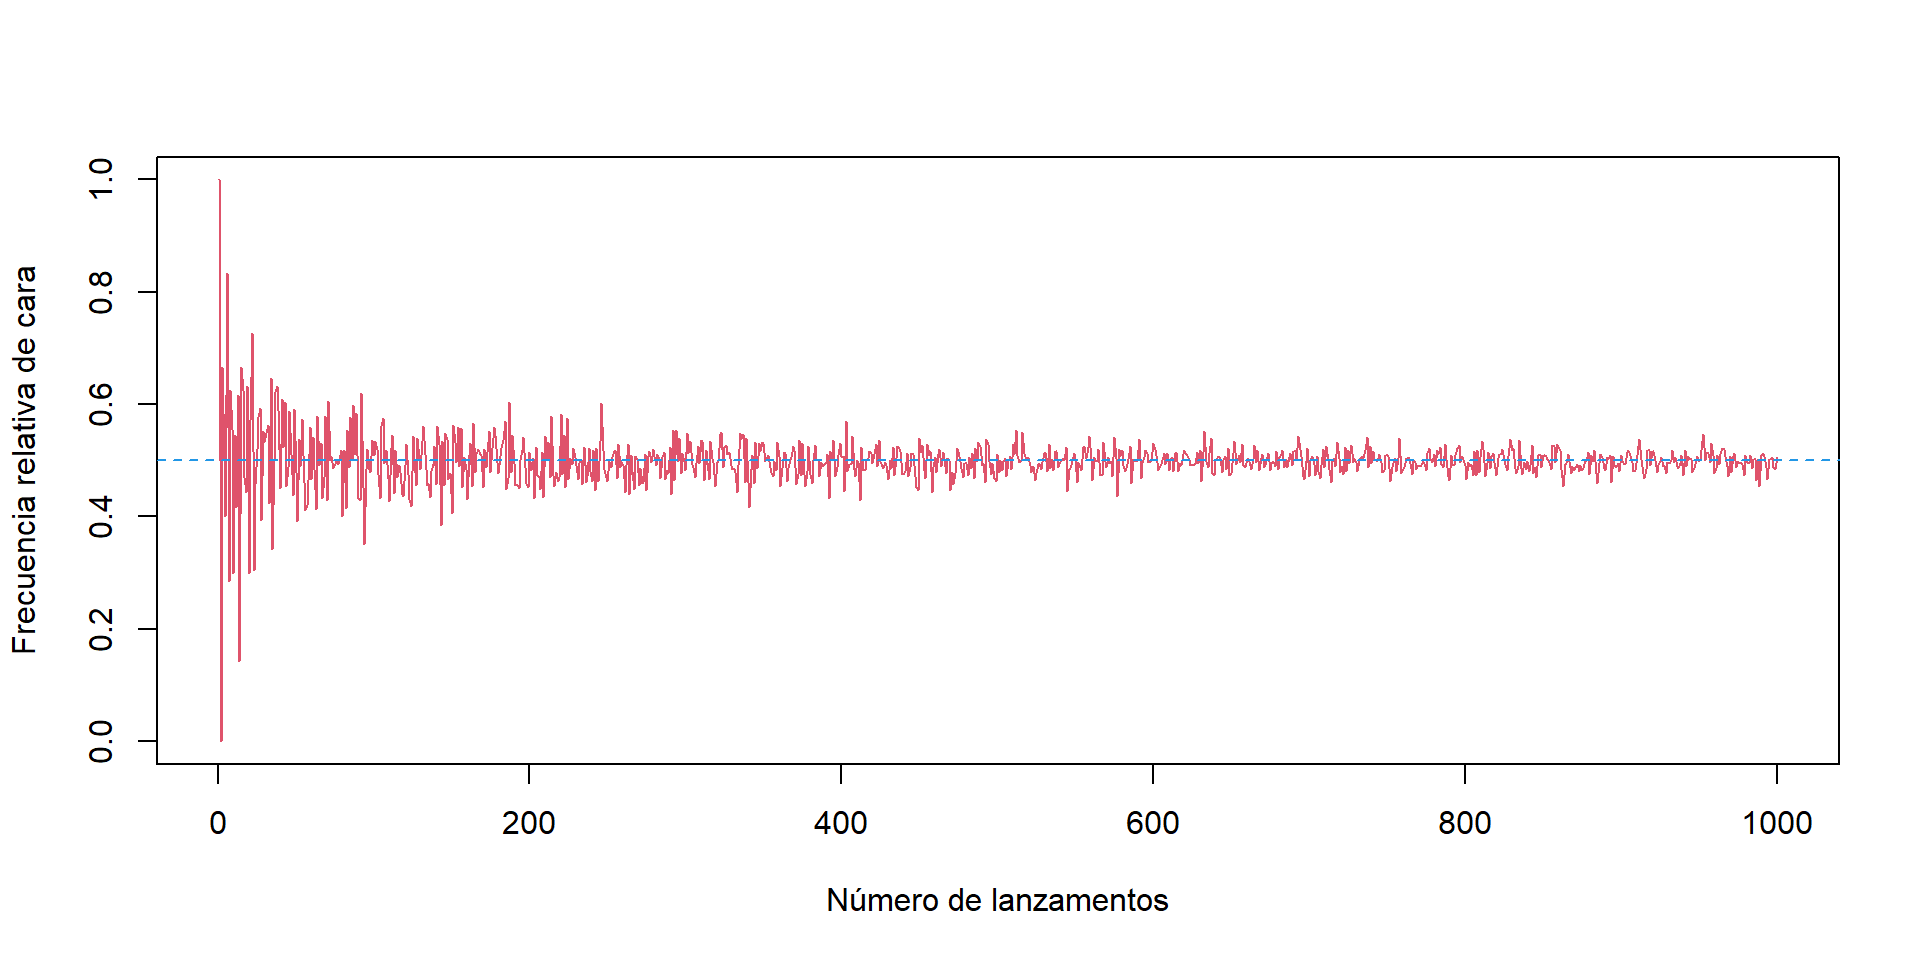
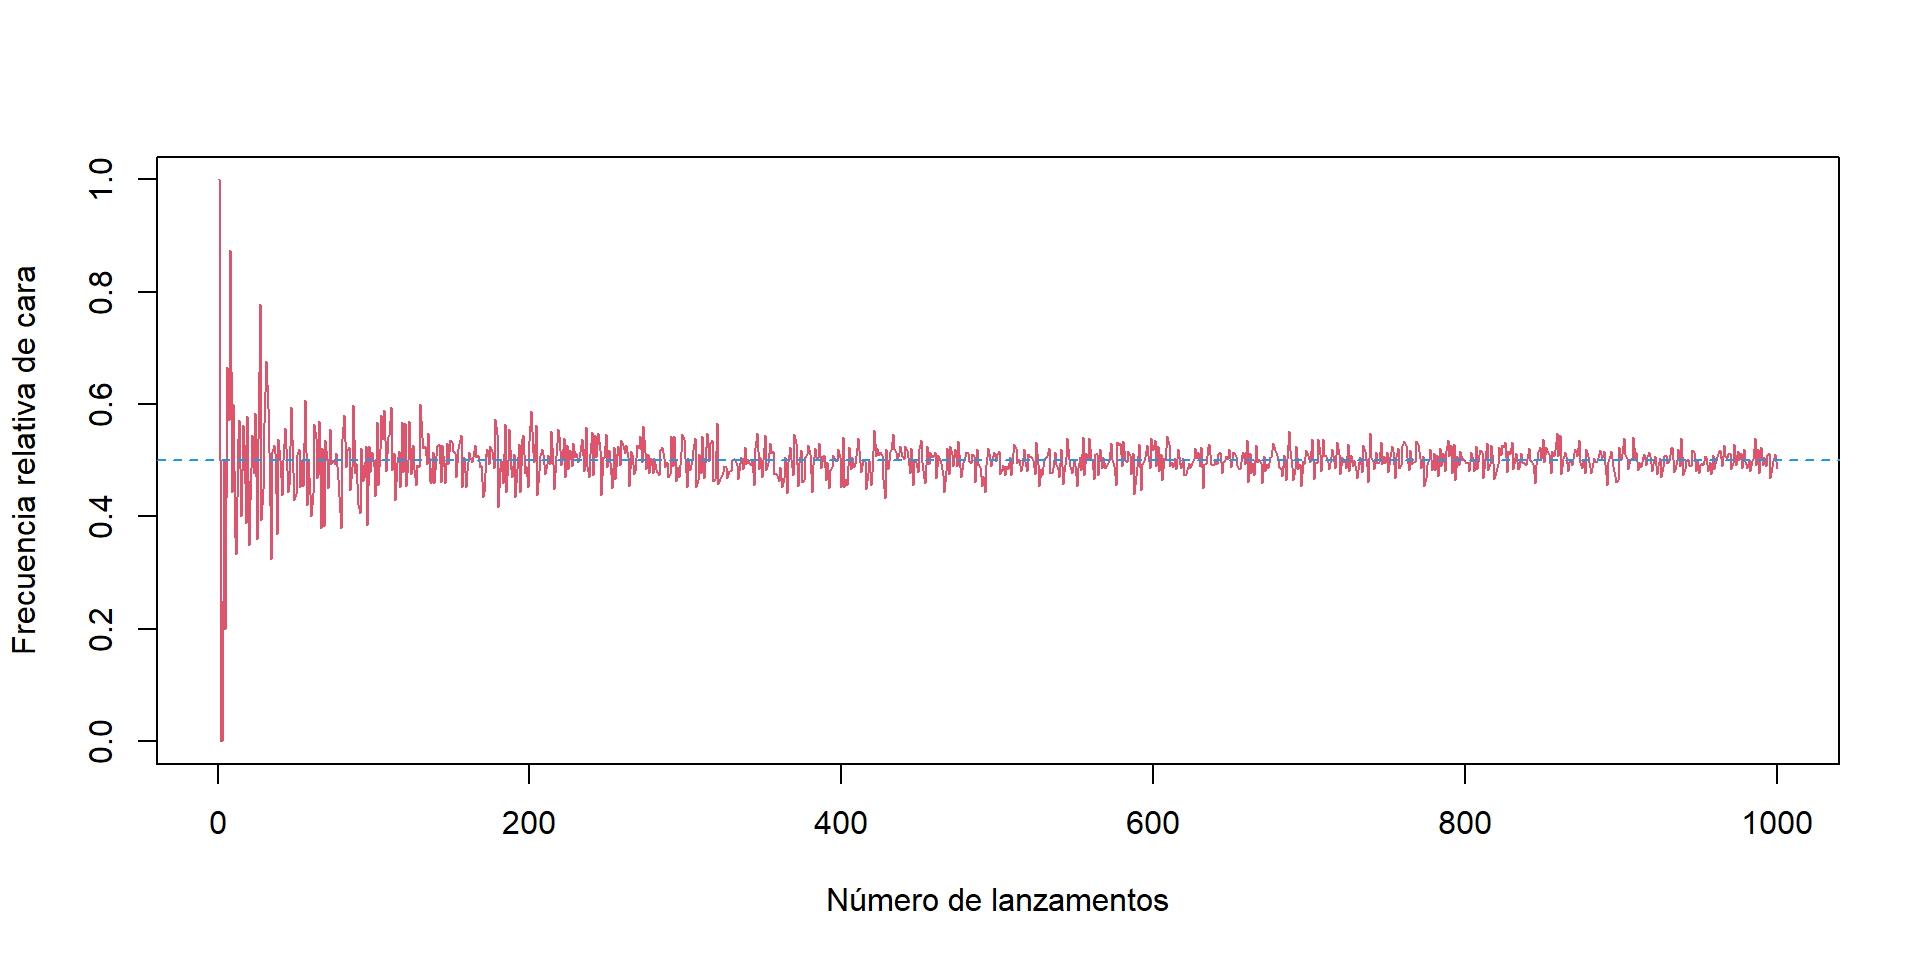
update EPE

Changed region(s): [[0.0938, 0.375, 0.9375, 0.625]]

diff --git a/materials/EPE/slides/Tema3_presentacion.html b/materials/EPE/slides/Tema3_presentacion.html
@@ -469,6 +469,7 @@ P\left(\bigcup_{i=1}^{\infty}A_i\right)
 <aside><ol class="aside-footnotes"><li id="fn1"><p>Unha <span class="math inline">\(\sigma\)</span>-álxebra é unha colección de sucesos pechada para as operacións que necesitaremos considerar: contén o espazo mostral e, se contén determinados sucesos, tamén contén os seus complementarios e as súas unións numerables.</p></li></ol></aside></section>
 <section id="propiedades-da-probabilidade" class="slide level2">
 <h2>Propiedades da probabilidade</h2>
+<div class="mysmall">
 <p>A partir dos axiomas de Kolmogorov pódense deducir algunhas propiedades fundamentais:</p>
 <ul>
 <li><p><strong>Probabilidade do suceso imposible:</strong> <span class="math inline">\(P(\emptyset)=0.\)</span></p></li>
@@ -478,16 +479,20 @@ P\left(\bigcup_{i=1}^{\infty}A_i\right)
 <li><p><strong>Principio de inclusión-exclusión:</strong> para dous sucesos <span class="math inline">\(A\)</span> e <span class="math inline">\(B\)</span>, <span class="math display">\[
 P(A\cup B)=P(A)+P(B)-P(A\cap B).
 \]</span></p>
-<p>En xeral, para <span class="math inline">\(A_1,\ldots,A_n\)</span>, <span class="math display">\[
+<p>En xeral, para <span class="math inline">\(A_1,\ldots,A_n\)</span>,</p>
+<p><span class="math display">\[
+\begin{aligned}
 P\left(\bigcup_{i=1}^n A_i\right)
 =
-\sum_i P(A_i)
--\sum_{i&lt;j}P(A_i\cap A_j)
-+\sum_{i&lt;j&lt;k}P(A_i\cap A_j\cap A_k)
+\sum_{i=1}^n P(A_i)
+-\sum_{1\leq i&lt;j\leq n}P(A_i\cap A_j)
++\sum_{1\leq i&lt;j&lt;k\leq n}P(A_i\cap A_j\cap A_k)
 -\cdots
 +(-1)^{n+1}P(A_1\cap\cdots\cap A_n).
+\end{aligned}
 \]</span></p></li>
 </ul>
+</div>
 </section>
 <section id="probabilidade-condicionada" class="slide level2">
 <h2>Probabilidade condicionada</h2>
@@ -540,6 +545,9 @@ P(A \cap B)=P(A)\cdot P(B).
 </li>
 <li><strong>Regra de Bayes</strong></li>
 </ul>
+<div style="text-align: center;">
+<p><img src="images/urna.png" style="width: 500px; max-width: 100%; height: auto;"></p>
+</div>
 </section>
 <section id="resultados-fundamentais-1" class="slide level2">
 <h2>Resultados fundamentais</h2>
@@ -559,9 +567,13 @@ P(A_n \mid A_1 \cap A_2 \cap \ldots \cap A_{n-1}).
 </div>
 </div>
 </div>
+<div style="text-align: center;">
+<p><img src="images/reglaproducto.png" style="width: 500px; max-width: 100%; height: auto;"></p>
+</div>
 </section>
 <section id="resultados-fundamentais-2" class="slide level2">
 <h2>Resultados fundamentais</h2>
+<div class="mysmall">
 <div class="callout callout-note no-icon callout-titled callout-style-default">
 <div class="callout-body">
 <div class="callout-title">
@@ -589,6 +601,10 @@ P(B) = P(A_1)\cdot P(B\mid A_1) + P(A_2)\cdot P(B\mid A_2) + \cdots + P(A_n)\cdo
 </div>
 </div>
 </div>
+<div style="text-align: center;">
+<p><img src="images/probtotal.png" style="width: 350px; max-width: 100%; height: auto;"></p>
+</div>
+</div>
 </section>
 <section id="resultados-fundamentais-3" class="slide level2">
 <h2>Resultados fundamentais</h2>
@@ -611,6 +627,27 @@ P(A_i\mid B) =
 </div>
 </div>
 </div>
+<div class="columns">
+<div class="column" style="width:20%;">
+<div class="quarto-figure quarto-figure-center">
+<figure>
+<p><img data-src="images/Bayes.jpg" class="quarto-figure quarto-figure-center" style="width:70.0%"></p>
+</figure>
+</div>
+<div style="text-align: center; font-size: 0.65em; margin-top: -32px;">
+<p>Thomas Bayes<br> (c.&nbsp;1701–1761)</p>
+</div>
+</div><div class="column" style="width:80%;">
+<div class="callout callout-tip no-icon callout-style-simple">
+<div class="callout-body">
+<div class="callout-content">
+<div style="text-align: right; font-size: 0.9em;">
+<p>O teorema de Bayes recibe o seu nome do matemático e reverendo inglés Thomas Bayes. O seu traballo, publicado postumamente en 1763, sentou as bases da inferencia bayesiana.</p>
+</div>
+</div>
+</div>
+</div>
+</div></div>
 </section>
 <section id="combinatoria" class="slide level2">
 <h2>Combinatoria</h2>
@@ -693,6 +730,36 @@ P(\text{2 caras})
 <div class="callout-content">
 <p>Se un evento <span class="math inline">\(A\)</span> pode realizarse de <span class="math inline">\(m\)</span> maneiras diferentes e despois outro evento <span class="math inline">\(B\)</span> pode realizarse de <span class="math inline">\(k\)</span> maneiras diferentes, entón o número total de formas nas que poden ocorrer <span class="math inline">\(A\)</span> e <span class="math inline">\(B\)</span> é <span class="math inline">\(m\cdot k\)</span>.</p>
 </div>
+</div>
+</div>
+</section>
+<section id="combinatoria-principios-xerais-1" class="slide level2">
+<h2>Combinatoria: principios xerais</h2>
+<p>O <strong>principio de inclusión-exclusión</strong> permite contar os elementos da unión de varios conxuntos, evitando contar varias veces os elementos comúns.</p>
+<div class="columns">
+<div class="column" style="width:75%;">
+<p><strong>Para dous conxuntos <span class="math inline">\(A_1\)</span> e <span class="math inline">\(A_2\)</span>:</strong></p>
+<p><span class="math display">\[
+|A_1\cup A_2|=|A_1|+|A_2|-|A_1\cap A_2|.
+\]</span></p>
+<p><strong>Para tres conxuntos <span class="math inline">\(A_1\)</span>, <span class="math inline">\(A_2\)</span> e <span class="math inline">\(A_3\)</span>:</strong></p>
+<div style="font-size: 0.85em;">
+<p><span class="math display">\[
+|A_1\cup A_2\cup A_3|=|A_1|+|A_2|+|A_3|-|A_1\cap A_2|-|A_1\cap A_3|-|A_2\cap A_3|+|A_1\cap A_2\cap A_3|.
+\]</span></p>
+</div>
+</div><div class="column" style="width:25%;">
+<div style="margin-top: -55px; text-align: center;">
+<p><img src="images/U2.png" style="width: 100%; display: block; margin: 0 auto 5px auto;"></p>
+<p><img src="images/U3.png" style="width: 100%; display: block; margin: -50px auto 0 auto;"></p>
+</div>
+</div></div>
+<div style="margin-top: -55px;">
+<p><strong>Para <span class="math inline">\(n\)</span> conxuntos <span class="math inline">\(A_1,\ldots,A_n\)</span>:</strong></p>
+<div style="font-size: 0.85em;">
+<p><span class="math display">\[
+\left|\bigcup_{i=1}^{n} A_i\right|=\sum_{i=1}^{n}|A_i|-\sum_{1\leq i&lt;j\leq n}|A_i\cap A_j|+\sum_{1\leq i&lt;j&lt;k\leq n}|A_i\cap A_j\cap A_k|-\cdots+(-1)^{n+1}|A_1\cap\cdots\cap A_n|.
+\]</span></p>
 </div>
 </div>
 </section>
@@ -801,18 +868,23 @@ CR(n,k)
 </section>
 <section id="propiedades-e-identidades-combinatorias" class="slide level2 scrollable">
 <h2>Propiedades e identidades combinatorias</h2>
-<p>Os números combinatorios verifican diversas propiedades que resultan útiles nos problemas de reconto:</p>
+<div class="mysmall">
 <ol type="1">
 <li><p><strong>Simetría:</strong> <span class="math display">\[
 {n\choose k}={n\choose n-k}.
 \]</span></p></li>
-<li><p><strong>Identidade de Pascal:</strong> <span class="math display">\[
+<li><p><strong>Fórmula de Pascal:</strong> <span class="math display">\[
 {n\choose k}={n-1\choose k-1}+{n-1\choose k}.
 \]</span></p></li>
 <li><p><strong>Suma dos números combinatorios:</strong> <span class="math display">\[
-\sum_{k=0}^{n}{n\choose k}=2^n.
+\sum_{k=0}^{n}{n\choose k}={n\choose 0}+{n\choose 1}+\ldots+{n\choose n}=2^n.
+\]</span> O conxunto das partes dun conxunto <span class="math inline">\(A\)</span>, denotado por <span class="math inline">\(\mathcal{P}(A)\)</span>, está formado por todos os subconxuntos de <span class="math inline">\(A\)</span>. Se <span class="math inline">\(A\)</span> ten <span class="math inline">\(n\)</span> elementos, entón <span class="math inline">\(|\mathcal{P}(A)|=2^n\)</span>.</p></li>
+<li><p><strong>Binomio de Newton:</strong> Ao desenvolver <span class="math inline">\((a+b)^n\)</span>, o coeficiente de <span class="math inline">\(a^{n-k}b^k\)</span> é <span class="math inline">\({n\choose k}\)</span>, xa que representa o número de formas de escoller os <span class="math inline">\(k\)</span> factores nos que se toma <span class="math inline">\(b\)</span>.</p>
+<p><span class="math display">\[
+(a+b)^n=\sum_{k=0}^{n}{n\choose k}a^{n-k}b^k.
 \]</span></p></li>
 </ol>
+</div>
 </section>
 <section id="cuestións-de-combinatoria" class="slide level2 scrollable">
 <h2>Cuestións de combinatoria</h2>
